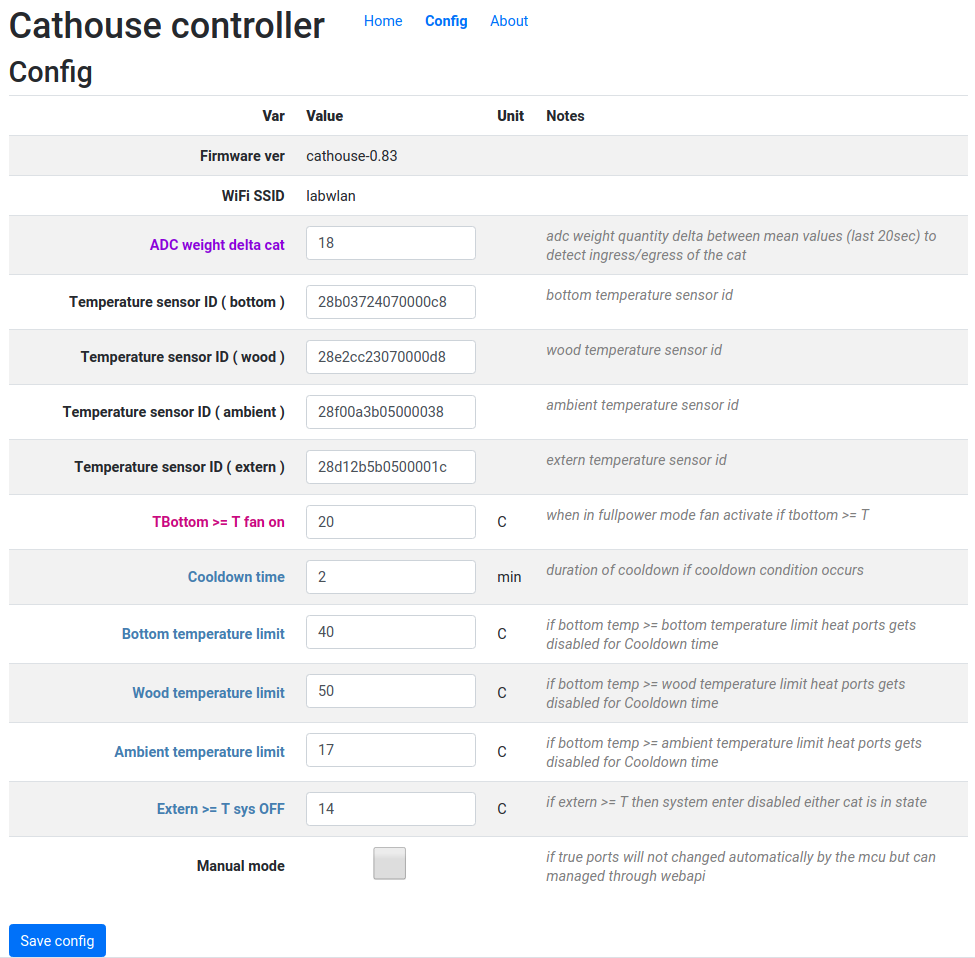
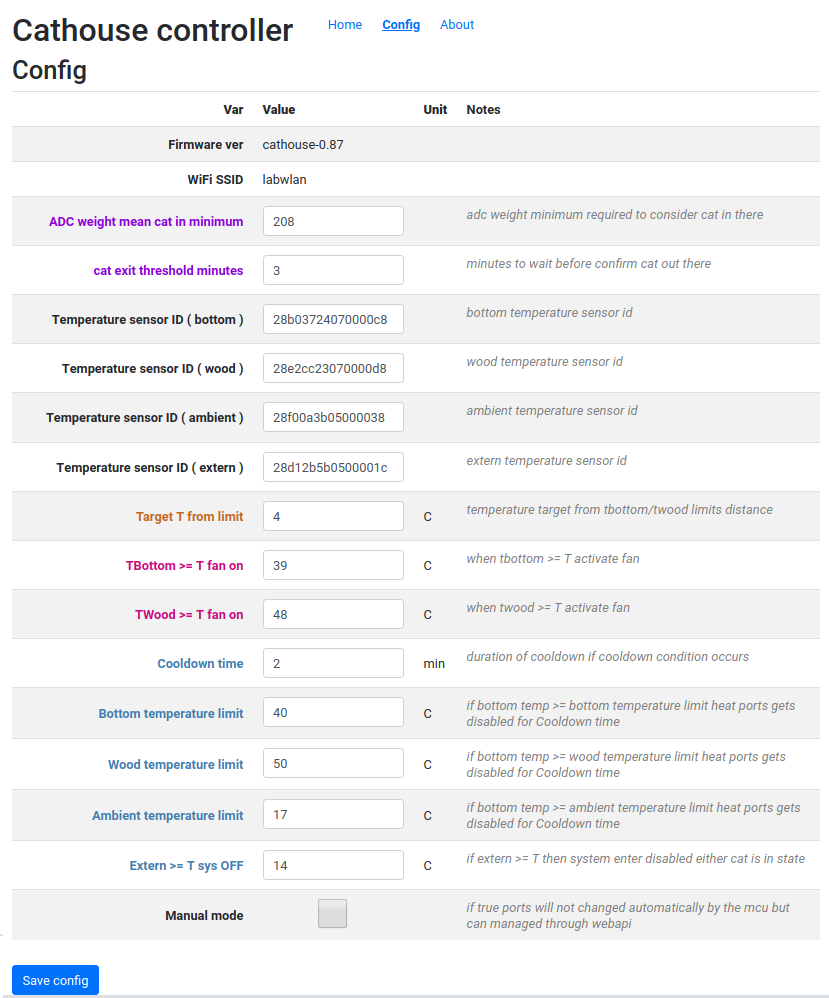
v0.87 ( single management active process )

diff --git a/cathouse-controller/index.htm b/cathouse-controller/index.htm
@@ -20,6 +20,11 @@
             font-weight: bold;
             color:mediumvioletred;
         }
+        .cfg-lbl-target {            
+            text-align: right;
+            font-weight: bold;
+            color: rgb(194, 103, 0);
+        }
         .cfg-lbl-pink {            
             text-align: right;
             font-weight: bold;
@@ -151,7 +156,7 @@
                                         <tr>
                                             <td class="text-right text-nowrap align-middle">Freeram current / min</td>
                                             <td class="align-middle"><span class='free-ram ml-3'></span> / <span class='free-ram-min'></span></td>
-                                        </tr>                                        
+                                        </tr>
                                         <tr>
                                             <td class="text-right text-nowrap align-middle">Temperature history
                                                 interval (min)</td>
@@ -293,10 +298,17 @@
                                 </tr>
 
                                 <tr>
+                                    <td class='cfg-lbl-target align-middle'>Target T from limit</td>
+                                    <td><input type='number' step='0.1' class='form-control' id='config-targetTempFromLimit'></input></td>
+                                    <td class='align-middle'>C</td>
+                                    <td class='cfg-notes'>temperature target from tbottom/twood limits distance</td>
+                                </tr>
+
+                                <tr>
                                     <td class='cfg-lbl-hot align-middle'>TBottom >= T fan on</td>
                                     <td><input type='number' step='0.1' class='form-control' id='config-tbottomGTEFanOn'></input></td>
                                     <td class='align-middle'>C</td>
-                                    <td class='cfg-notes'>when in fullpower mode fan activate if tbottom >= T</td>
+                                    <td class='cfg-notes'>when tbottom >= T activate fan</td>
                                 </tr>
                                 <tr>
                                     <td class='cfg-lbl-hot align-middle'>TWood >= T fan on</td>

diff --git a/cathouse-controller/app.js b/cathouse-controller/app.js
@@ -821,6 +821,7 @@ async function reloadConfig() {
     $('#config-texternGTESysOff')[0].value = res["texternGTESysOff"];
     $('#config-tbottomGTEFanOn')[0].value = res["tbottomGTEFanOn"];
     $('#config-twoodGTEFanOn')[0].value = res["twoodGTEFanOn"];
+    $('#config-targetTempFromLimit')[0].value = res['targetTempFromLimit'];
 }
 
 var infoLastLoad;
@@ -973,7 +974,8 @@ async function saveConfig() {
         cooldownTimeMs: parseFloat($('#config-cooldownTimeMs-min')[0].value) * 1000 * 60,
         texternGTESysOff: parseFloat($('#config-texternGTESysOff')[0].value),
         tbottomGTEFanOn: parseFloat($('#config-tbottomGTEFanOn')[0].value),
-        twoodGTEFanOn: parseFloat($('#config-twoodGTEFanOn')[0].value)
+        twoodGTEFanOn: parseFloat($('#config-twoodGTEFanOn')[0].value),
+        targetTempFromLimit: parseFloat($('#config-targetTempFromLimit')[0].value)
     };
 
     while (!finished) {

diff --git a/cathouse-controller/Engine.cpp b/cathouse-controller/Engine.cpp
@@ -78,10 +78,8 @@ String getCycleStr(CycleTypes cycle)
     {
     case none:
         return "none";
-    case fullpower:
-        return "fullpower";
-    case standby:
-        return "standby";
+    case active:
+        return "active";
     case cooldown:
         return "cooldown";
     case disabled:
@@ -148,6 +146,7 @@ void backPrevCycle()
 }
 
 unsigned long lastStandbyTrendEval = millis();
+unsigned long lastFanActivation = millis();
 
 void engineProcess()
 {
@@ -209,87 +208,61 @@ void engineProcess()
         }
         else // CAT IS IN THERE
         {
-            // initiate fullpower
+            // initiate active cycle
             if (currentCycle != disabled && currentCycle != cooldown &&
-                currentCycle != fullpower && currentCycle != standby)
+                currentCycle != active)
             {
-                setCurrentCycle(fullpower);
+                setCurrentCycle(active);
+            }
+
+            // manage fan
+            {
+                if (tbottom_assigned && twood_assigned)
+                {
+                    auto pfan = digitalRead(FAN_PIN);
+
+                    if (pfan == LOW &&
+                        (tbottom >= eeJsonConfig.tbottomGTEFanOn || twood >= eeJsonConfig.twoodGTEFanOn))
+                    {
+                        lastFanActivation = millis();
+                        digitalWrite(FAN_PIN, HIGH);
+                        Serial.printf("engine> enable fan because tbottom %f>=%f or twood %f>=%f\n",
+                                      tbottom, eeJsonConfig.tbottomGTEFanOn,
+                                      twood, eeJsonConfig.twoodGTEFanOn);
+                    }
+                    else if (pfan == HIGH &&
+                             timeDiff(lastFanActivation, millis()) >= ((unsigned long)ENGINE_FAN_DEACTIVATION_THRESHOLD_MIN) * 1000 * 60 &&
+                             tbottom < eeJsonConfig.tbottomGTEFanOn && twood < eeJsonConfig.twoodGTEFanOn)
+                    {
+                        digitalWrite(FAN_PIN, LOW);
+                        Serial.printf("engine> disable fan\n");
+                    }
+                }
             }
 
             switch (currentCycle)
             {
-            case fullpower:
+
+            case active:
             {
-                if (tbottom_assigned)
-                {
-                    // manage fan
-                    auto pfan = digitalRead(FAN_PIN);
-                    if (tbottom >= eeJsonConfig.tbottomGTEFanOn && pfan == LOW)
-                    {
-                        digitalWrite(FAN_PIN, HIGH);
-                        Serial.printf("engine> enable fan because tbottom %f>=%f in fullpower cycle\n",
-                                      tbottom, eeJsonConfig.tbottomGTEFanOn);
-                    }
-                    else if (tbottom < eeJsonConfig.tbottomGTEFanOn - 1 && pfan == HIGH)
-                    {
-                        digitalWrite(FAN_PIN, LOW);
-                        Serial.printf("engine> disable fan because tbottom %f<%f-1 in fullpower cycle\n",
-                                      tbottom, eeJsonConfig.tbottomGTEFanOn);
-                    }
 
-                    auto tFromLimit = eeJsonConfig.tbottomLimit - tbottom;
-                    if (tFromLimit <= ENGINE_STANDBY_TARGET_TEMP_DISTANCE)
-                    {
-                        Serial.printf("engine> switch to standby cycle disabling fan if any\n");
-                        setCurrentCycle(standby);
-                        setPorts(2);
-                        digitalWrite(FAN_PIN, LOW);
-                    }
-                    else
-                    {
-                        if (getPorts() != 4)
-                        {
-                            Serial.printf("engine> enable fullpower cycle ports\n");
-                            setPorts(4);
-                        }
-                    }
-                }
-            }
-            break;
-
-            case standby:
-            {
-                if (twood_assigned)
+                if (tbottom_assigned && twood_assigned)
                 {
-                    auto pfan = digitalRead(FAN_PIN);
-                    if (twood >= eeJsonConfig.twoodGTEFanOn && pfan == LOW)
-                    {
-                        digitalWrite(FAN_PIN, HIGH);
-                        Serial.printf("engine> enable fan because twood %f>=%f\n",
-                                      twood, eeJsonConfig.twoodGTEFanOn);
-                    }
-                    else if (twood < eeJsonConfig.twoodGTEFanOn - 1 && pfan == HIGH)
-                    {
-                        digitalWrite(FAN_PIN, LOW);
-                        Serial.printf("engine> disable fan because twood %f<%f-1 in fullpower cycle\n",
-                                      twood, eeJsonConfig.twoodGTEFanOn);
-                    }
-                }
+                    auto diffBottom = tbottom - (eeJsonConfig.tbottomLimit - eeJsonConfig.targetTempFromLimit);
+                    auto diffWood = twood - (eeJsonConfig.twoodLimit - eeJsonConfig.targetTempFromLimit);
 
-                if (tbottom_assigned)
-                {
-                    auto diff = tbottom - (eeJsonConfig.tbottomLimit - ENGINE_STANDBY_TARGET_TEMP_DISTANCE);
-                    if (abs(diff) > TBOTTOM_TREND_DELTA_C &&
+                    if ((abs(diffBottom) > TBOTTOM_TREND_DELTA_C || abs(diffWood) > TBOTTOM_TREND_DELTA_C) &&
                         timeDiff(lastStandbyTrendEval, millis()) > ENGINE_STANDBY_REACTION_INTERVAL_MS)
                     {
                         auto ports = getPorts();
+                        auto diff = min(diffBottom, diffWood);
+                        auto portsToSet = -1;
 
                         if (diff > 0)
                         {
                             if (ports > 0)
                             {
-                                Serial.printf("engine> set 0 ports quantity because exceeded target temp\n");
-                                setPorts(0);
+                                portsToSet = 0;                                
                             }
                         }
                         else
@@ -297,9 +270,16 @@ void engineProcess()
                             int pq = (int)max(diff / TBOTTOM_TREND_DELTA_C, 4.0);
                             if (pq != ports)
                             {
-                                setPorts(pq);
-                                Serial.printf("engine> set %d ports quantity\n", pq);
+                                portsToSet = pq;
                             }
+                        }
+                        if (portsToSet != -1)
+                        {
+                            setPorts(portsToSet);
+                            Serial.printf("engine> tbottom=%f (target=%f) and twood=%f (target=%f) makes %d ports active\n",
+                                          tbottom, tbottom - eeJsonConfig.targetTempFromLimit,
+                                          twood, twood - eeJsonConfig.targetTempFromLimit,
+                                          portsToSet);
                         }
 
                         lastStandbyTrendEval = millis();

diff --git a/cathouse-controller/EEJsonConfig.cpp b/cathouse-controller/EEJsonConfig.cpp
@@ -37,7 +37,8 @@ void EEJsonConfig::Save(Print &prn, bool forWebapi)
         .property("catExitThresholdMin", catExitThresholdMin)
         .property("manualMode", manualMode)
         .property("tbottomGTEFanOn", tbottomGTEFanOn)
-        .property("twoodGTEFanOn", twoodGTEFanOn);
+        .property("twoodGTEFanOn", twoodGTEFanOn)
+        .property("targetTempFromLimit", targetTempFromLimit);
 
     if (forWebapi) // saveconfig webapi includes view of these variabiles coming from eeStaticConfig
     {
@@ -108,6 +109,7 @@ void EEJsonConfig::Clear()
     catExitThresholdMin = FACTORY_CATEXIT_THRESHOLD_MIN;
     tbottomGTEFanOn = FACTORY_TBOTTOM_GTE_FAN_ON;
     twoodGTEFanOn = FACTORY_TWOOD_GTE_FAN_ON;
+    targetTempFromLimit = FACTORY_TARGET_TEMP_FROM_LIMIT;
     manualMode = FACTORY_MANULA_MODE;
 }
 
@@ -268,6 +270,8 @@ void EEJsonConfigParseListener::value(String value)
         eeJsonConfig.tbottomGTEFanOn = atof(value.c_str());
     else if (lastKey == "twoodGTEFanOn")
         eeJsonConfig.twoodGTEFanOn = atof(value.c_str());
+    else if (lastKey == "targetTempFromLimit")
+        eeJsonConfig.targetTempFromLimit = atof(value.c_str());
     else if (lastKey == "manualMode")
         eeJsonConfig.manualMode = (value == "true") ? true : false;
 

diff --git a/cathouse-controller/index.htm.h b/cathouse-controller/index.htm.h
@@ -21,6 +21,11 @@ text-align: right; \
 font-weight: bold; \
 color:mediumvioletred; \
 } \
+.cfg-lbl-target { \
+text-align: right; \
+font-weight: bold; \
+color: rgb(194, 103, 0); \
+} \
 .cfg-lbl-pink { \
 text-align: right; \
 font-weight: bold; \
@@ -294,10 +299,17 @@ class='cat-is-in-there ml-3'></span></button> \
 </tr> \
  \
 <tr> \
+<td class='cfg-lbl-target align-middle'>Target T from limit</td> \
+<td><input type='number' step='0.1' class='form-control' id='config-targetTempFromLimit'></input></td> \
+<td class='align-middle'>C</td> \
+<td class='cfg-notes'>temperature target from tbottom/twood limits distance</td> \
+</tr> \
+ \
+<tr> \
 <td class='cfg-lbl-hot align-middle'>TBottom >= T fan on</td> \
 <td><input type='number' step='0.1' class='form-control' id='config-tbottomGTEFanOn'></input></td> \
 <td class='align-middle'>C</td> \
-<td class='cfg-notes'>when in fullpower mode fan activate if tbottom >= T</td> \
+<td class='cfg-notes'>when tbottom >= T activate fan</td> \
 </tr> \
 <tr> \
 <td class='cfg-lbl-hot align-middle'>TWood >= T fan on</td> \

diff --git a/cathouse-controller/app.js.h b/cathouse-controller/app.js.h
@@ -797,6 +797,7 @@ $('#config-cooldownTimeMs-min')[0].value = res[\"cooldownTimeMs\"] / 1000.0 / 60
 $('#config-texternGTESysOff')[0].value = res[\"texternGTESysOff\"]; \
 $('#config-tbottomGTEFanOn')[0].value = res[\"tbottomGTEFanOn\"]; \
 $('#config-twoodGTEFanOn')[0].value = res[\"twoodGTEFanOn\"]; \
+$('#config-targetTempFromLimit')[0].value = res['targetTempFromLimit']; \
 } \
  \
 var infoLastLoad; \
@@ -940,7 +941,8 @@ tambientLimit: parseFloat($('#config-tambientLimit')[0].value), \
 cooldownTimeMs: parseFloat($('#config-cooldownTimeMs-min')[0].value) * 1000 * 60, \
 texternGTESysOff: parseFloat($('#config-texternGTESysOff')[0].value), \
 tbottomGTEFanOn: parseFloat($('#config-tbottomGTEFanOn')[0].value), \
-twoodGTEFanOn: parseFloat($('#config-twoodGTEFanOn')[0].value) \
+twoodGTEFanOn: parseFloat($('#config-twoodGTEFanOn')[0].value), \
+targetTempFromLimit: parseFloat($('#config-targetTempFromLimit')[0].value) \
 }; \
  \
 while (!finished) { \

diff --git a/cathouse-controller/Config.h b/cathouse-controller/Config.h
@@ -1,7 +1,7 @@
 #ifndef _CONFIG_H_
 #define _CONFIG_H_
 
-#define FIRMWARE_VER "cathouse-0.86"
+#define FIRMWARE_VER "cathouse-0.87"
 
 #include <Arduino.h>
 
@@ -34,7 +34,7 @@
 #define ADCWEIGHT_HISTORY_BACKLOG_KB 4
 #define ENGINE_POOL_INTERVAL_MS 5000
 #define ENGINE_STANDBY_REACTION_INTERVAL_MS 60000
-#define ENGINE_STANDBY_TARGET_TEMP_DISTANCE 2
+#define ENGINE_FAN_DEACTIVATION_THRESHOLD_MIN 1
 
 // port preference order
 #define PORT_PREF_1 MOSFET_P2
@@ -51,8 +51,9 @@
 #define FACTORY_TEXTERN_GTE_SYS_OFF 14
 #define FACTORY_ADC_WEIGHT_MEAN_CATIN_MINIMUM 208
 #define FACTORY_CATEXIT_THRESHOLD_MIN 3
-#define FACTORY_TBOTTOM_GTE_FAN_ON 35
+#define FACTORY_TBOTTOM_GTE_FAN_ON 39
 #define FACTORY_TWOOD_GTE_FAN_ON 48
+#define FACTORY_TARGET_TEMP_FROM_LIMIT 4
 #define FACTORY_MANULA_MODE false
 #define FACTORY_FANLESS_MODE true
 

diff --git a/cathouse-controller/EEJsonConfig.h b/cathouse-controller/EEJsonConfig.h
@@ -41,11 +41,14 @@ public:
   // minutes to wait before confirm cat out there
   int catExitThresholdMin;
 
-  // when in fullpower mode fan activate if tbottom >= T
+  // when tbottom >= T activate fan
   double tbottomGTEFanOn;
 
   // when twood >= T activate fan
   double twoodGTEFanOn;
+
+  // temperature target from tbottom/twood limits distance
+  double targetTempFromLimit;
 
   // serialize this config in json format using overridable Printer write method
   void Save(Print &prn, bool forWebapi = false);

diff --git a/cathouse-controller/Engine.h b/cathouse-controller/Engine.h
@@ -8,10 +8,8 @@ enum CycleTypes
     // initial
     none,
 
-    // heat first phase
-    fullpower,
-    // heat continuous
-    standby,
+    // active mode
+    active,    
 
     // tbottom or twood or tambient exceeded
     cooldown,
